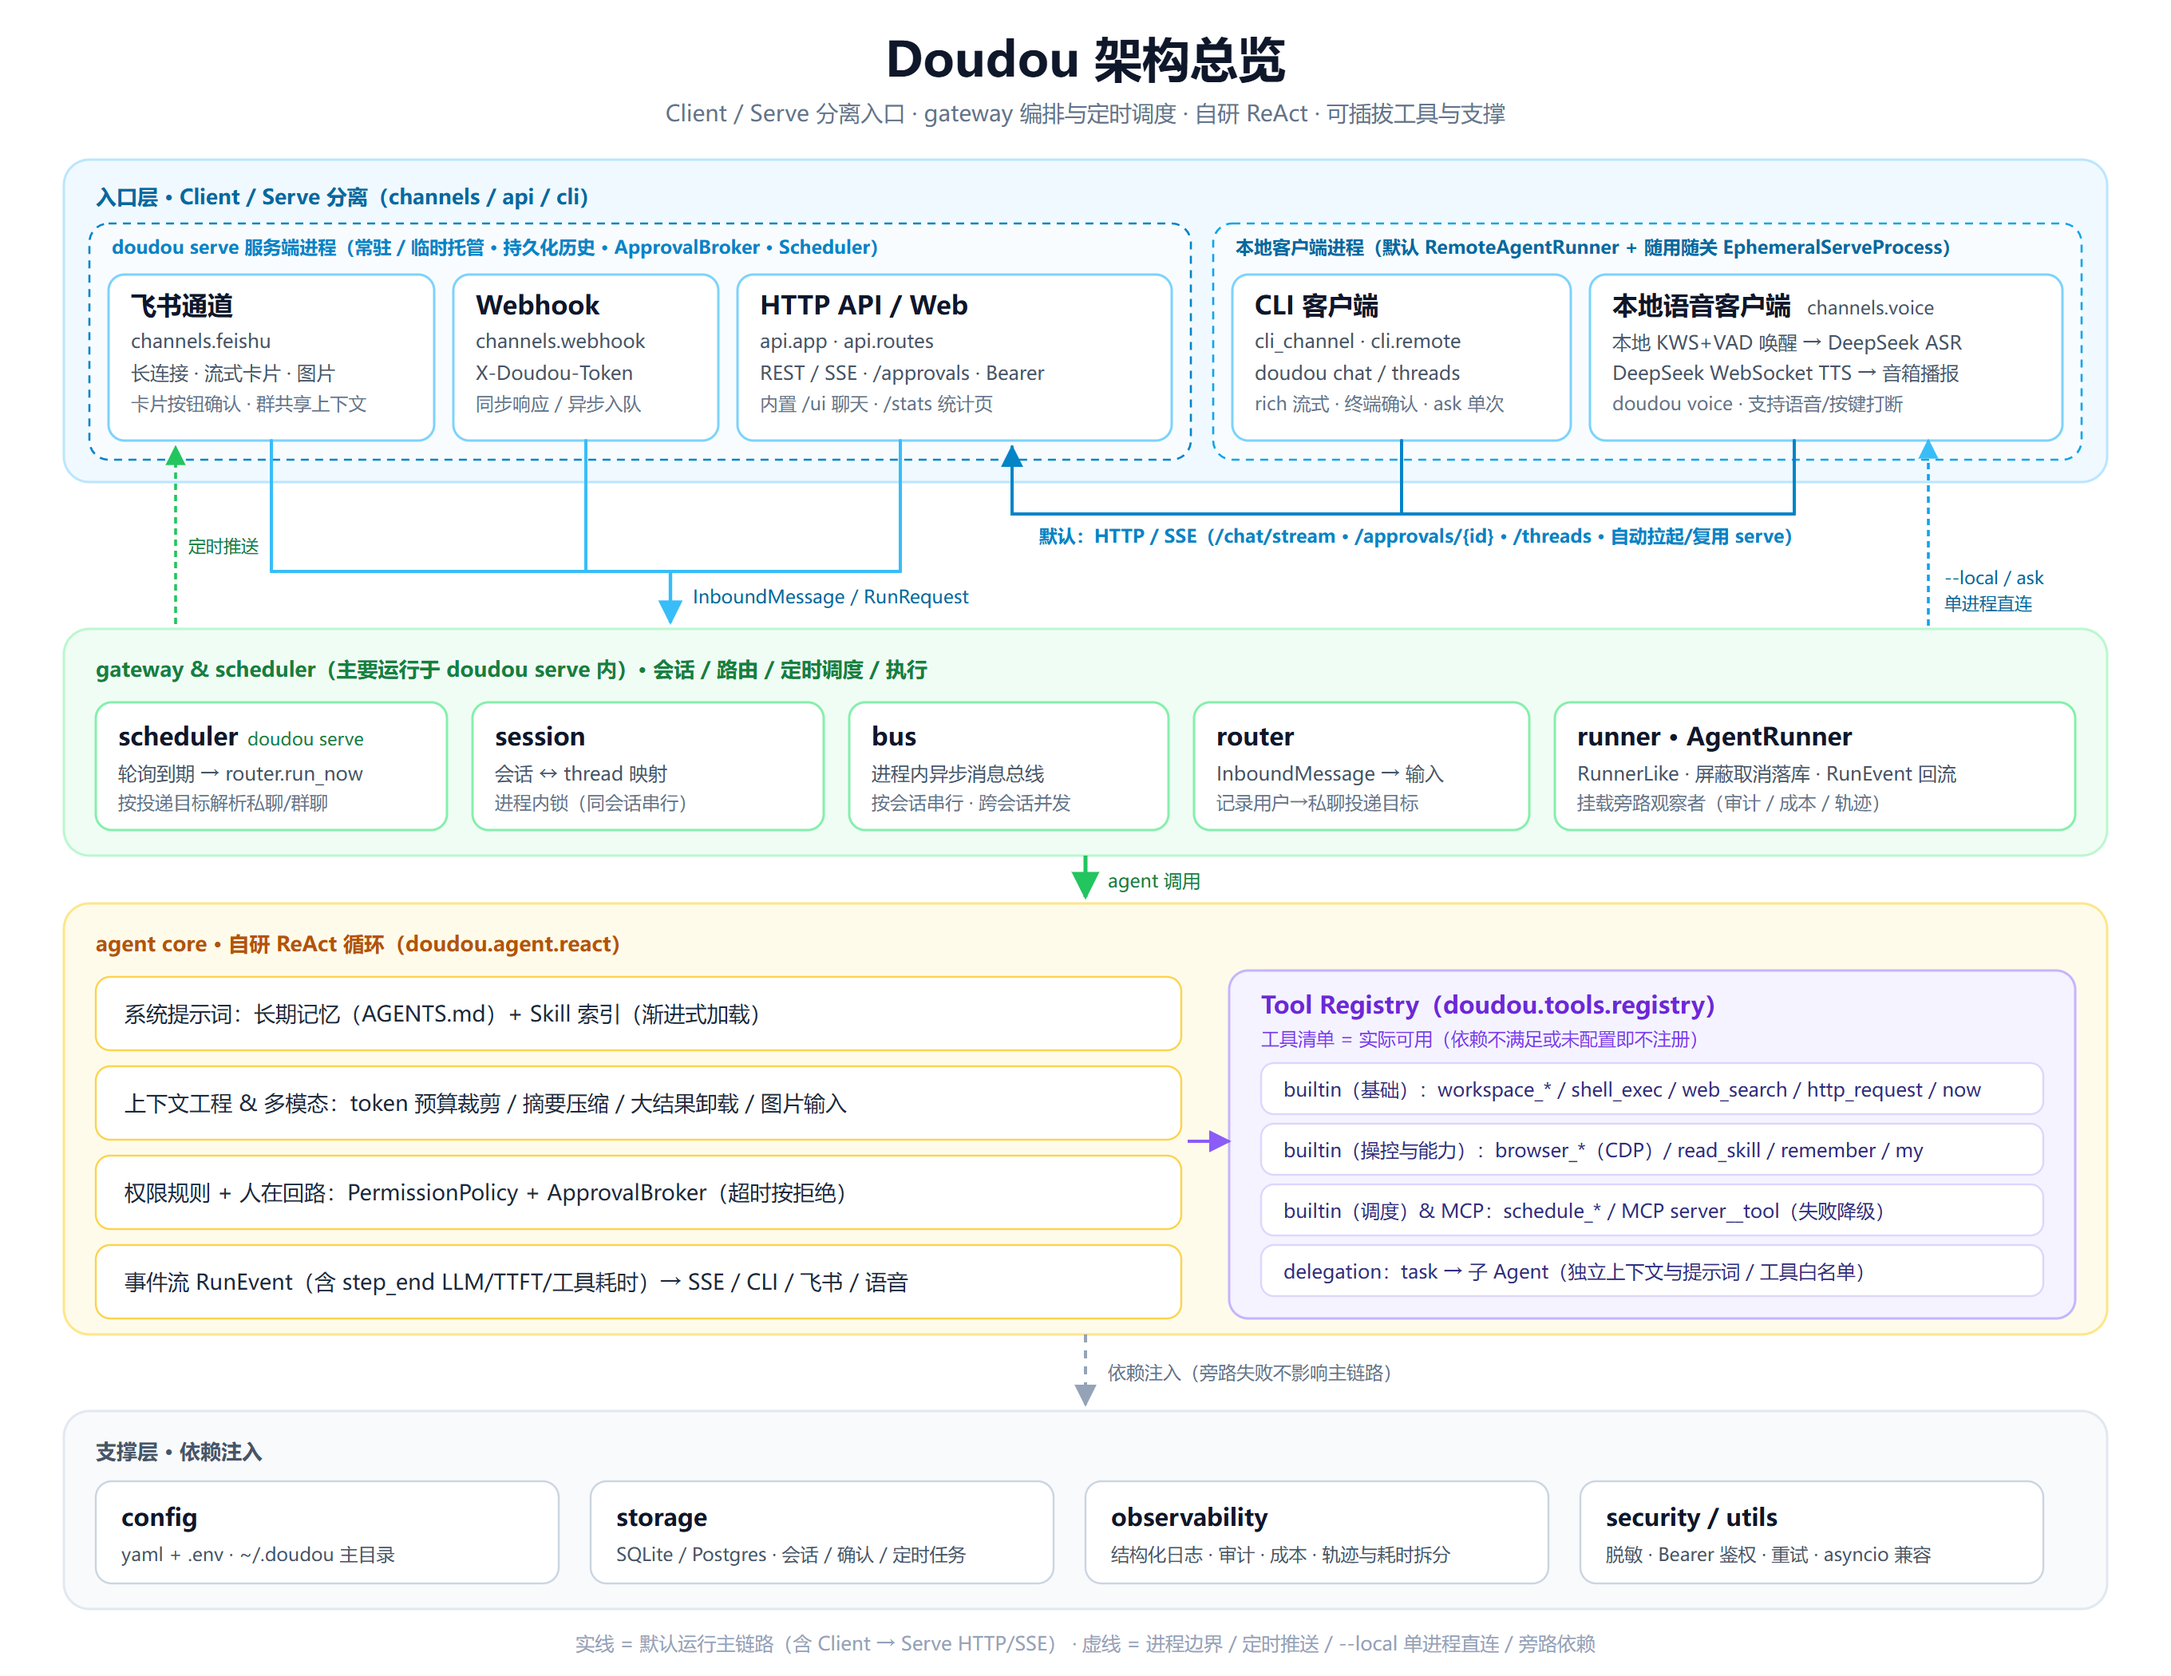
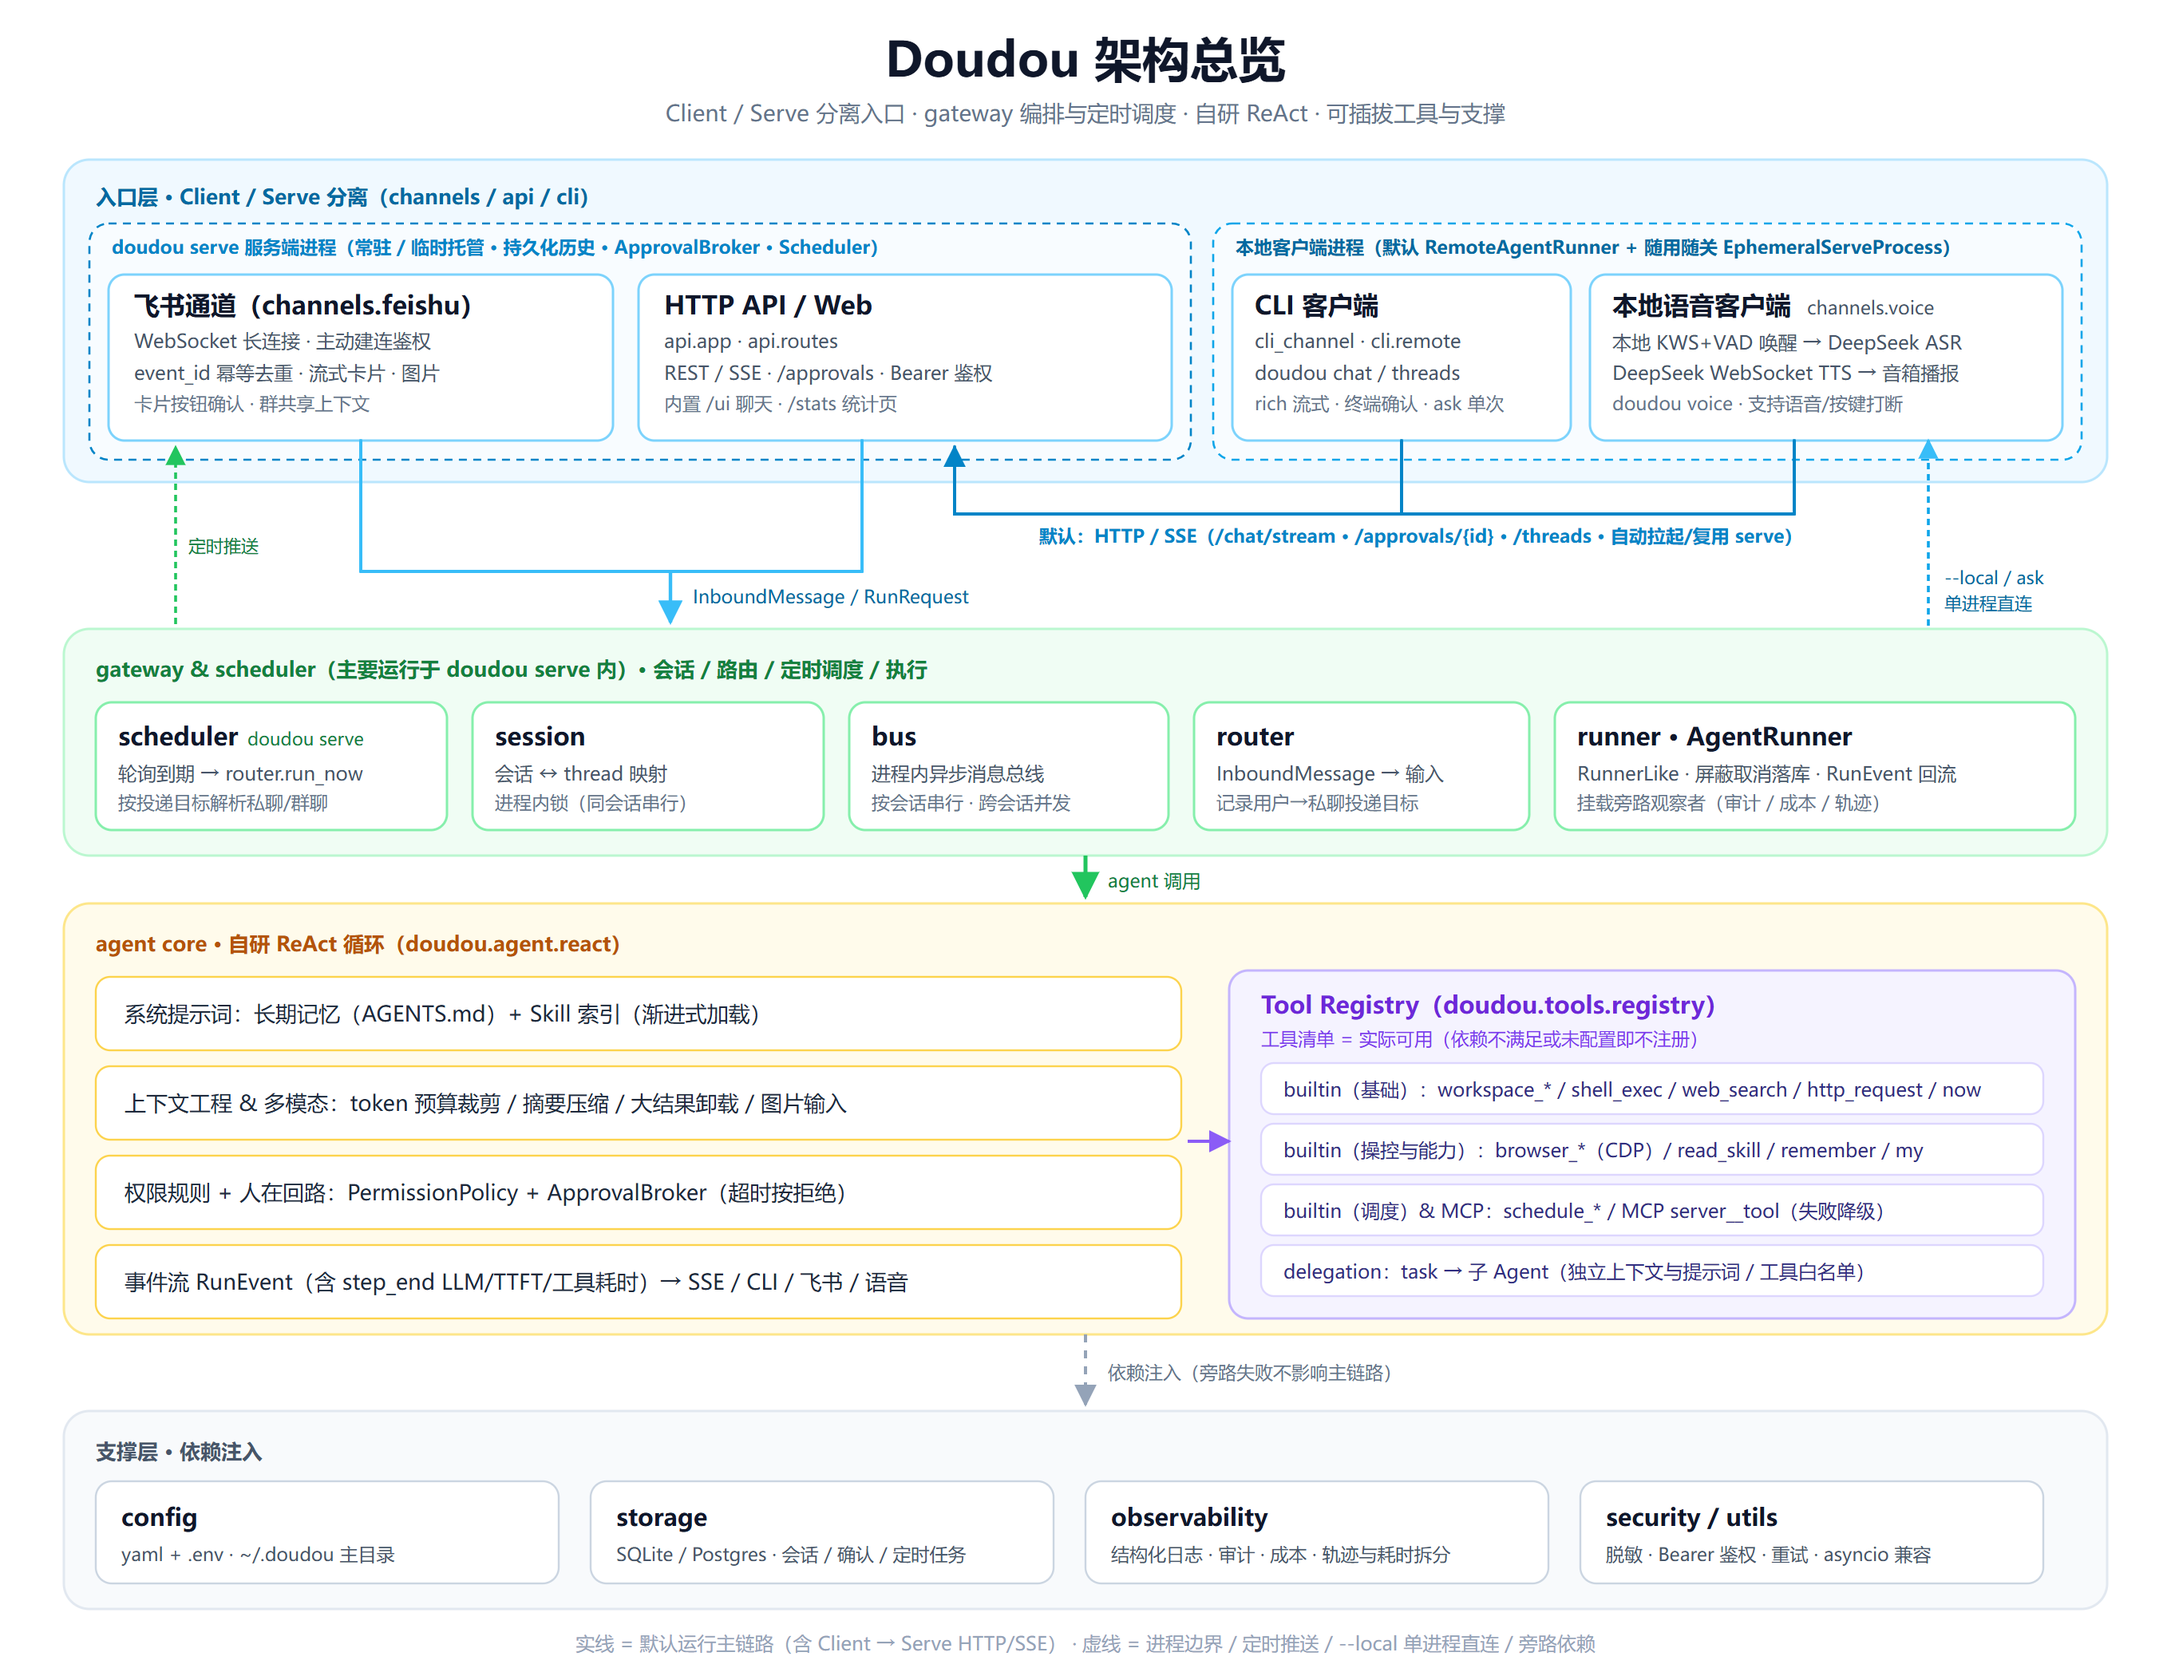
fix(docs,config,channels): 移除未实现的 webhook/callback 空壳与配置，修正文档漂移

Changed region(s): [[0.0625, 0.1548, 0.4688, 0.3095]]

diff --git a/tests/unit/test_config.py b/tests/unit/test_config.py
@@ -110,6 +110,24 @@ def test_unknown_yaml_key_is_rejected(settings_factory) -> None:  # type: ignore
         settings_factory(config_yaml="agent:\n  max_stpes: 3\n")
 
 
+@pytest.mark.parametrize(
+    "config_yaml",
+    [
+        "channels:\n  webhook:\n    enabled: false\n",
+        "channels:\n  feishu:\n    mode: websocket\n",
+        "channels:\n  feishu:\n    encrypt_key: x\n",
+        "channels:\n  feishu:\n    verification_token: x\n",
+    ],
+)
+def test_unimplemented_channel_fields_are_rejected(
+    settings_factory,  # type: ignore[no-untyped-def]
+    config_yaml: str,
+) -> None:
+    """未实现的 webhook / 飞书 callback 字段不再保留空壳，配置出现时应直接拒绝。"""
+    with pytest.raises(ValidationError):
+        settings_factory(config_yaml=config_yaml)
+
+
 def test_secrets_read_from_env(settings_factory) -> None:  # type: ignore[no-untyped-def]
     settings = settings_factory(
         config_yaml=MINIMAL_CONFIG,
@@ -261,19 +279,19 @@ def test_redact_masks_nested_values_under_sensitive_key() -> None:
     assert "sk-ant-987" not in str(redacted)
 
 
-def test_describe_redacts_api_keys_and_encrypt_key(settings_factory) -> None:  # type: ignore[no-untyped-def]
+def test_describe_redacts_api_keys_and_channel_secrets(settings_factory) -> None:  # type: ignore[no-untyped-def]
     settings = settings_factory(
         config_yaml=MINIMAL_CONFIG,
         env={
             "DOUDOU_MODEL_API_KEYS": '{"openai": "sk-nested-secret"}',
-            "DOUDOU_CHANNELS_FEISHU_ENCRYPT_KEY": "encrypt-secret",
+            "DOUDOU_CHANNELS_FEISHU_APP_SECRET": "feishu-app-secret",
         },
     )
 
     shown = str(settings.describe())
 
     assert "sk-nested-secret" not in shown
-    assert "encrypt-secret" not in shown
+    assert "feishu-app-secret" not in shown
 
 
 def test_mask_edge_cases() -> None:
@@ -295,14 +313,18 @@ def test_deep_merge() -> None:
     assert base["a"] == {"b": 1, "c": 2}
 
 
-def test_settings_cache_can_be_reset() -> None:
+def test_settings_cache_can_be_reset(tmp_path: Path, monkeypatch: pytest.MonkeyPatch) -> None:
+    monkeypatch.setenv("DOUDOU_HOME", str(tmp_path))
+    monkeypatch.setenv("DOUDOU_ENV_FILE", str(tmp_path / "no.env"))
     reset_settings_cache()
-    first = get_settings()
-    assert get_settings() is first
+    try:
+        first = get_settings()
+        assert get_settings() is first
 
-    reset_settings_cache()
-    assert get_settings() is not first
-    reset_settings_cache()
+        reset_settings_cache()
+        assert get_settings() is not first
+    finally:
+        reset_settings_cache()
 
 
 def test_env_names_follow_config_paths() -> None:

diff --git a/src/doudou/config/schema.py b/src/doudou/config/schema.py
@@ -458,10 +458,9 @@ class CliChannelConfig(_Section):
 
 
 class FeishuChannelConfig(_Section):
+    """飞书长连接通道配置（仅支持 WebSocket 主动建连，不暴露 HTTP 回调端点）。"""
+
     enabled: bool = False
-    #: ``websocket`` 用长连接收事件（无需公网地址，推荐本地开发与内网部署）；
-    #: ``callback`` 用 HTTP 事件回调（需要公网 HTTPS 地址与验签解密）。
-    mode: Literal["callback", "websocket"] = "callback"
     base_url: str = "https://open.feishu.cn"
     bot_name: str = "Doudou"
     #: 机器人自己的 open_id。留空时按 ``bot_name`` 或事件的 mentioned_type 判定 @。
@@ -469,10 +468,6 @@ class FeishuChannelConfig(_Section):
     #: 应用凭据。留空时由环境变量注入（DOUDOU_CHANNELS_FEISHU_APP_ID / _APP_SECRET）。
     app_id: str | None = None
     app_secret: str | None = None
-    #: 事件订阅校验 Token / 加密密钥；callback 模式需要，websocket 模式不用。
-    verification_token: str | None = None
-    encrypt_key: str | None = None
-    event_path: str = "/webhooks/feishu/events"
     reply_mode: Literal["card", "text"] = "card"
     stream_reply: bool = True
     card_update_interval_ms: int = 800
@@ -484,12 +479,6 @@ class FeishuChannelConfig(_Section):
     isolate_by_thread: bool = False
     max_reply_chars: int = 4000
     dedup_ttl_seconds: int = 600
-
-
-class WebhookChannelConfig(_Section):
-    enabled: bool = False
-    #: 校验入站请求的 header 名（不是密钥本身）。
-    token_header: str = "X-Doudou-Token"  # noqa: S105
 
 
 class VoiceChannelConfig(_Section):
@@ -540,7 +529,6 @@ class VoiceChannelConfig(_Section):
 class ChannelsConfig(_Section):
     cli: CliChannelConfig = Field(default_factory=CliChannelConfig)
     feishu: FeishuChannelConfig = Field(default_factory=FeishuChannelConfig)
-    webhook: WebhookChannelConfig = Field(default_factory=WebhookChannelConfig)
     voice: VoiceChannelConfig = Field(default_factory=VoiceChannelConfig)
 
 
@@ -678,5 +666,4 @@ __all__ = [
     "ToolsConfig",
     "TracesConfig",
     "WebSearchToolConfig",
-    "WebhookChannelConfig",
 ]

diff --git a/src/doudou/config/settings.py b/src/doudou/config/settings.py
@@ -4,7 +4,7 @@
 
 * ``model.api_key`` / ``model.api_keys``
 * ``tools.web_search.api_key``
-* ``channels.feishu.app_id`` / ``app_secret`` / ``verification_token`` / ``encrypt_key``
+* ``channels.feishu.app_id`` / ``app_secret``
 
 环境变量统一为 ``DOUDOU_`` + 配置路径（见 :mod:`doudou.config.env`）。
 :class:`Secrets` 只是把这些字段整理成「按 provider 取值」的旧视图，
@@ -44,8 +44,6 @@ class Secrets(BaseModel):
 
     feishu_app_id: str | None = None
     feishu_app_secret: str | None = None
-    feishu_verification_token: str | None = None
-    feishu_encrypt_key: str | None = None
     feishu_base_url: str | None = None
     voice_api_key: str | None = None
 
@@ -91,8 +89,6 @@ class Secrets(BaseModel):
             tavily_api_key=web.api_key if web.provider == "tavily" else None,
             feishu_app_id=feishu.app_id,
             feishu_app_secret=feishu.app_secret,
-            feishu_verification_token=feishu.verification_token,
-            feishu_encrypt_key=feishu.encrypt_key,
             feishu_base_url=feishu.base_url,
             voice_api_key=voice.api_key or deepseek_key,
         )

diff --git a/src/doudou/channels/feishu/channel.py b/src/doudou/channels/feishu/channel.py
@@ -192,12 +192,6 @@ class FeishuChannel:
                 "飞书通道已启用但缺少凭据：请设置 DOUDOU_CHANNELS_FEISHU_APP_ID "
                 "与 DOUDOU_CHANNELS_FEISHU_APP_SECRET。"
             )
-        if self.config.mode != "websocket":
-            logger.warning(
-                "feishu.mode_unsupported_yet",
-                mode=self.config.mode,
-                hint="目前只实现了 websocket 长连接；callback 模式需要验签解密与公网回调地址",
-            )
 
         # 记下主事件循环：事件从 WS 线程进来时要靠它把活儿交回来。
         self._main_loop = asyncio.get_running_loop()
@@ -216,7 +210,7 @@ class FeishuChannel:
         self._ws.start()
         logger.info(
             "feishu.channel_started",
-            mode=self.config.mode,
+            transport="websocket",
             bot_name=self.config.bot_name,
             group_require_at=self.config.group_require_at,
             isolate_by_thread=self.config.isolate_by_thread,

diff --git a/tests/unit/test_feishu_channel.py b/tests/unit/test_feishu_channel.py
@@ -148,7 +148,6 @@ def settings(settings_factory) -> Settings:  # type: ignore[no-untyped-def]
             "channels:\n"
             "  feishu:\n"
             "    enabled: true\n"
-            "    mode: websocket\n"
             "    bot_name: Doudou\n"
             '    bot_open_id: "ou_bot"\n'
             '    app_id: "cli_test"\n'
@@ -329,9 +328,7 @@ def test_fetch_bot_open_id_handles_exception(settings: Settings) -> None:
 
 async def test_start_requires_credentials(settings_factory) -> None:  # type: ignore[no-untyped-def]
     """缺凭据必须明确报错，而不是安静地连不上。"""
-    bare = settings_factory(
-        config_yaml="channels:\n  feishu:\n    enabled: true\n    mode: websocket\n"
-    )
+    bare = settings_factory(config_yaml="channels:\n  feishu:\n    enabled: true\n")
     channel = FeishuChannel(bare, RecordingSink(), runner=FakeWsRunner())  # type: ignore[arg-type]
 
     with pytest.raises(FeishuError, match="缺少凭据"):

diff --git a/src/doudou/api/app.py b/src/doudou/api/app.py
@@ -3,6 +3,7 @@
 from __future__ import annotations
 
 from pathlib import Path
+from typing import TYPE_CHECKING, Any
 
 from fastapi import APIRouter, FastAPI
 from fastapi.middleware.cors import CORSMiddleware
@@ -120,8 +121,17 @@ def create_app(settings: Settings | None = None) -> FastAPI:
     return app
 
 
-#: uvicorn / gunicorn 的入口：``uvicorn doudou.api.app:app``。
-app = create_app()
+if TYPE_CHECKING:  # pragma: no cover - 供类型检查识别延迟创建的模块级 app
+    app: FastAPI
+
+
+def __getattr__(name: str) -> Any:
+    """按需构造 ``uvicorn doudou.api.app:app`` 入口，避免仅 import ``create_app`` 时读配置。"""
+    if name == "app":
+        instance = create_app()
+        globals()["app"] = instance
+        return instance
+    raise AttributeError(f"module {__name__!r} has no attribute {name!r}")
 
 
 __all__ = ["app", "create_app"]

diff --git a/src/doudou/cli/main.py b/src/doudou/cli/main.py
@@ -927,13 +927,6 @@ def config_check(config_dir: ConfigDir = None, model: ModelOption = None) -> Non
         ]
         if missing:
             problems.append(("warn", f"飞书通道已启用但缺少：{', '.join(missing)}"))
-        if not feishu.encrypt_key:
-            problems.append(
-                (
-                    "warn",
-                    "飞书未配置 DOUDOU_CHANNELS_FEISHU_ENCRYPT_KEY，生产环境应启用加密",
-                )
-            )
         if not module_available("lark_oapi"):
             problems.append(
                 ("error", f"飞书通道已启用但未安装 lark-oapi。{install_hint('feishu')}")

diff --git a/src/doudou/channels/registry.py b/src/doudou/channels/registry.py
@@ -46,12 +46,6 @@ def build_enabled_channels(
         else:
             from doudou.channels.feishu import FeishuChannel
 
-            if feishu.mode != "websocket":
-                logger.warning(
-                    "channels.feishu_mode_unsupported",
-                    mode=feishu.mode,
-                    hint="目前只实现了 websocket 长连接模式，callback 模式仍会按长连接启动",
-                )
             channels.append(FeishuChannel(settings, router, broker=broker))
     else:
         logger.debug("channels.feishu_disabled")

diff --git a/src/doudou/channels/feishu/__init__.py b/src/doudou/channels/feishu/__init__.py
@@ -1,7 +1,6 @@
 """Feishu (Lark) channel package.
 
-当前实现 **websocket 长连接** 模式（无需公网地址）。``callback`` 模式需要的
-验签解密（``crypto.py``）与公网回调路由尚未实现，见 docs/channels.md。
+当前实现 **WebSocket 长连接** 接入（无需公网地址与回调验签解密），见 docs/channels.md。
 """
 
 from __future__ import annotations

diff --git a/tests/unit/test_feishu.py b/tests/unit/test_feishu.py
@@ -76,7 +76,6 @@ def feishu_settings(settings_factory) -> Settings:  # type: ignore[no-untyped-de
             "channels:\n"
             "  feishu:\n"
             "    enabled: true\n"
-            "    mode: websocket\n"
             "    bot_name: Doudou\n"
             '    bot_open_id: "ou_bot"\n'
             f"{extra}"

diff --git a/src/doudou/tools/builtin/self_config.py b/src/doudou/tools/builtin/self_config.py
@@ -62,8 +62,6 @@ _CREDENTIAL_FIELDS = (
     "tavily_api_key",
     "feishu_app_id",
     "feishu_app_secret",
-    "feishu_verification_token",
-    "feishu_encrypt_key",
 )
 
 #: URL 里的用户名/密码：``postgres://user:pass@host`` → ``postgres://user:********@host``。

diff --git a/src/doudou/security/__init__.py b/src/doudou/security/__init__.py
@@ -1,4 +1,4 @@
-"""Security package: authentication, callback verification and secret handling."""
+"""Security package: authentication and secret handling."""
 
 from __future__ import annotations
 
